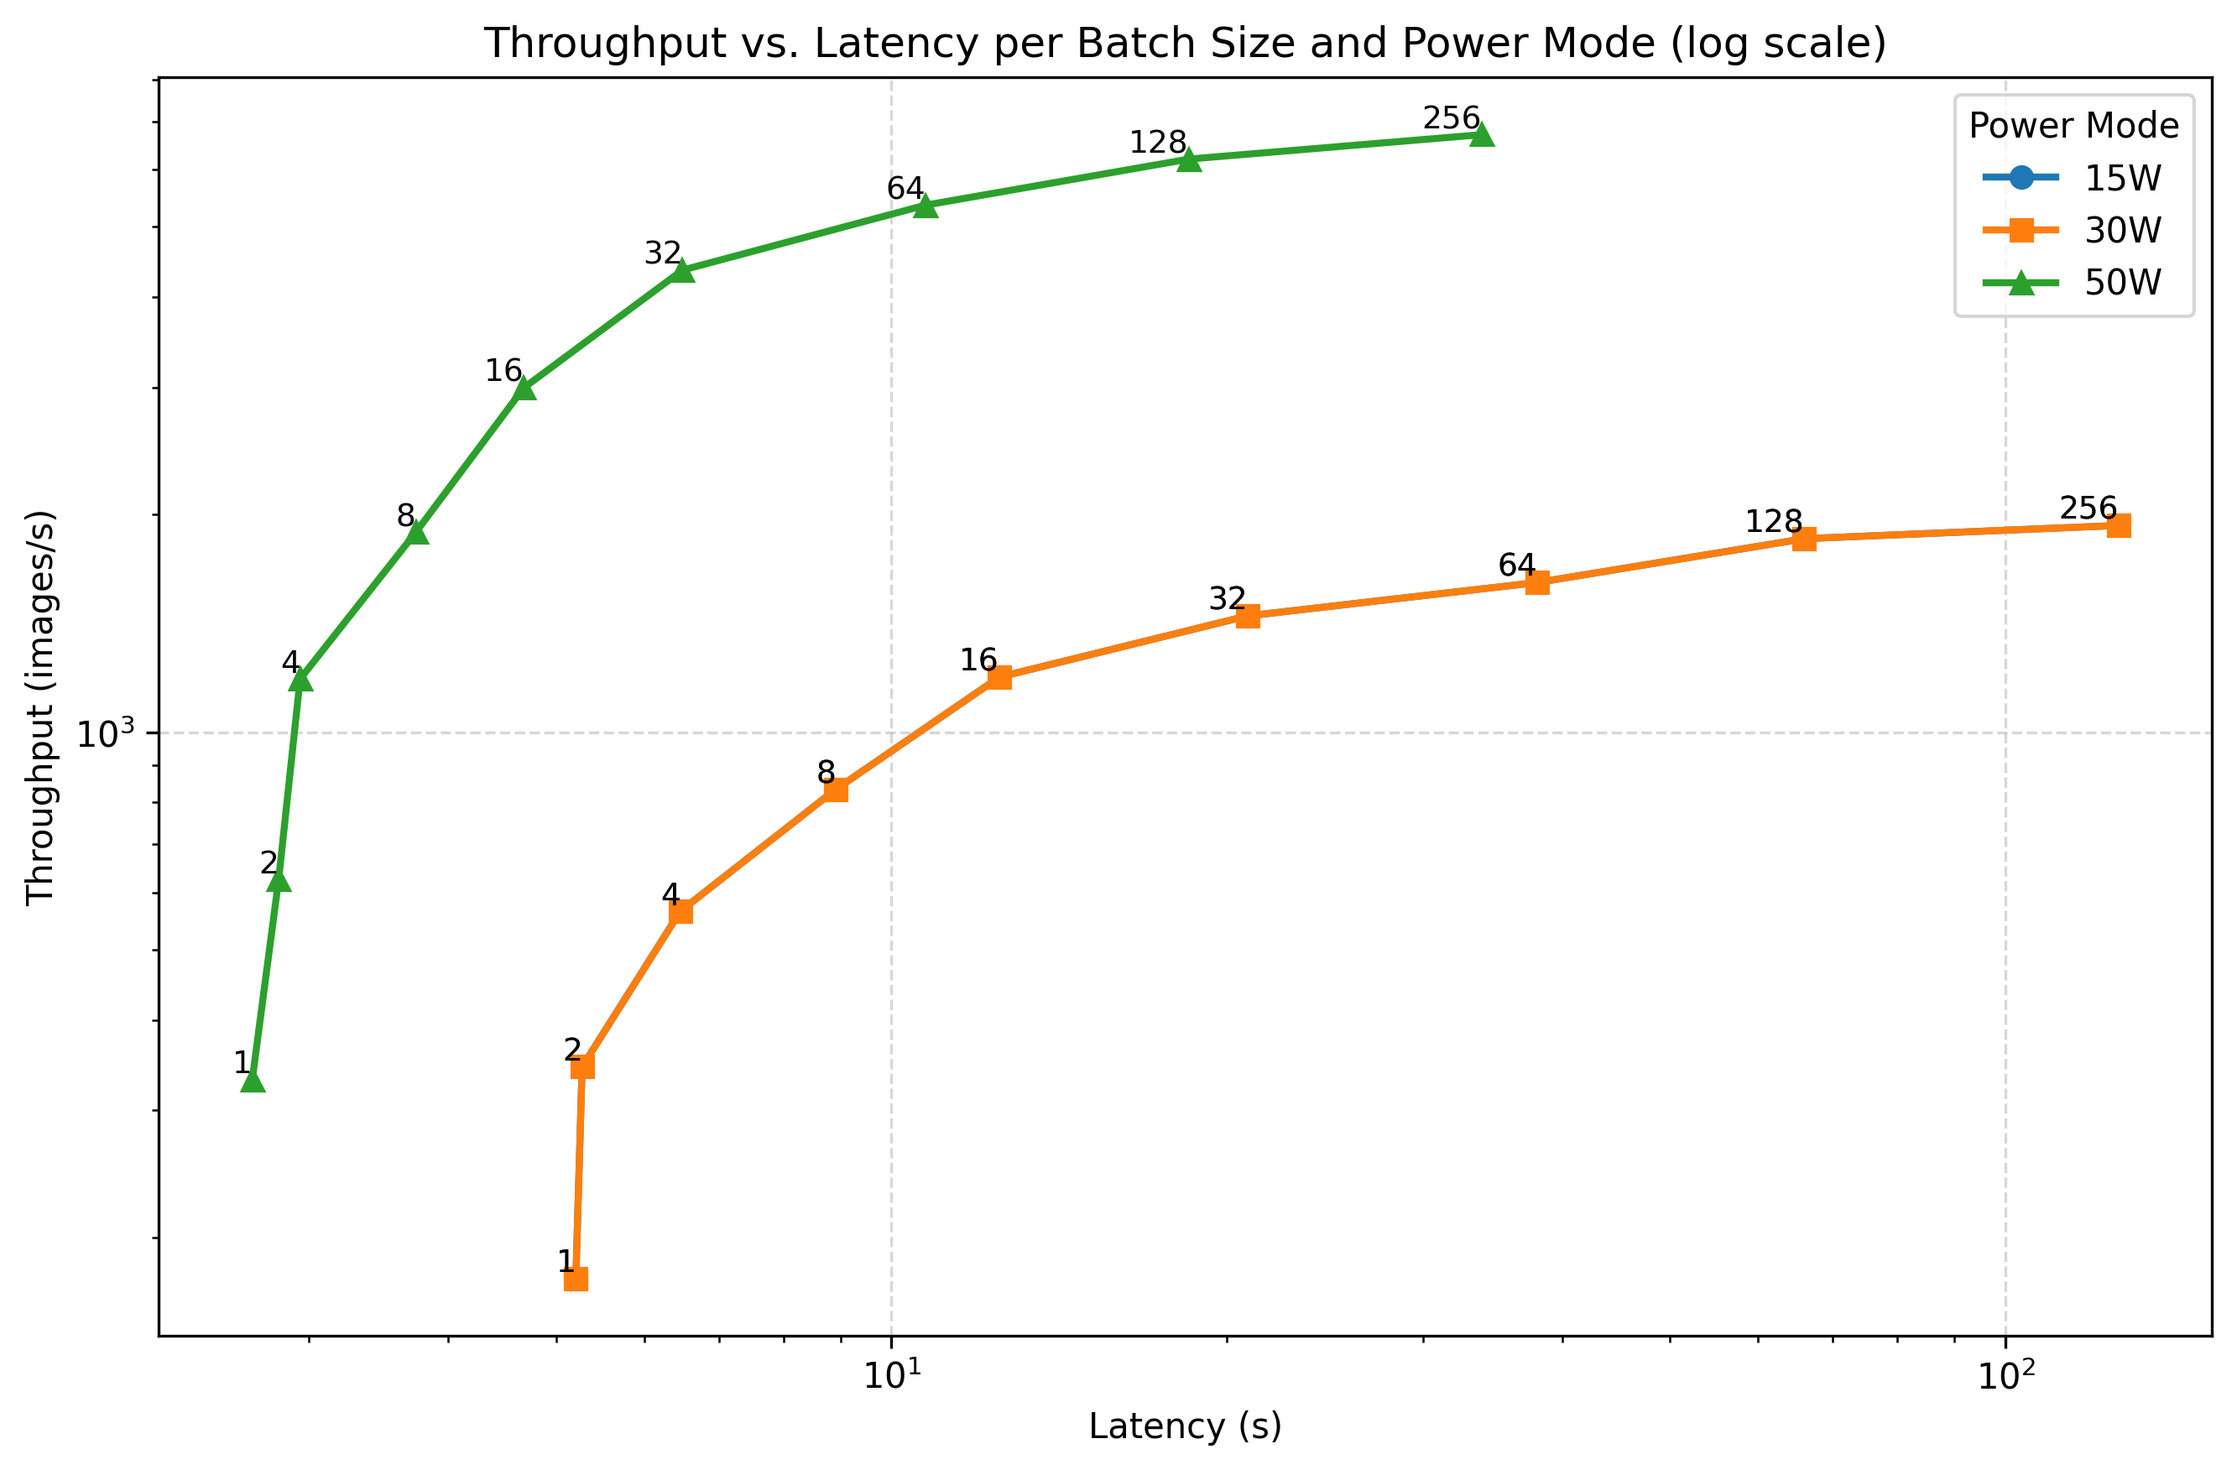
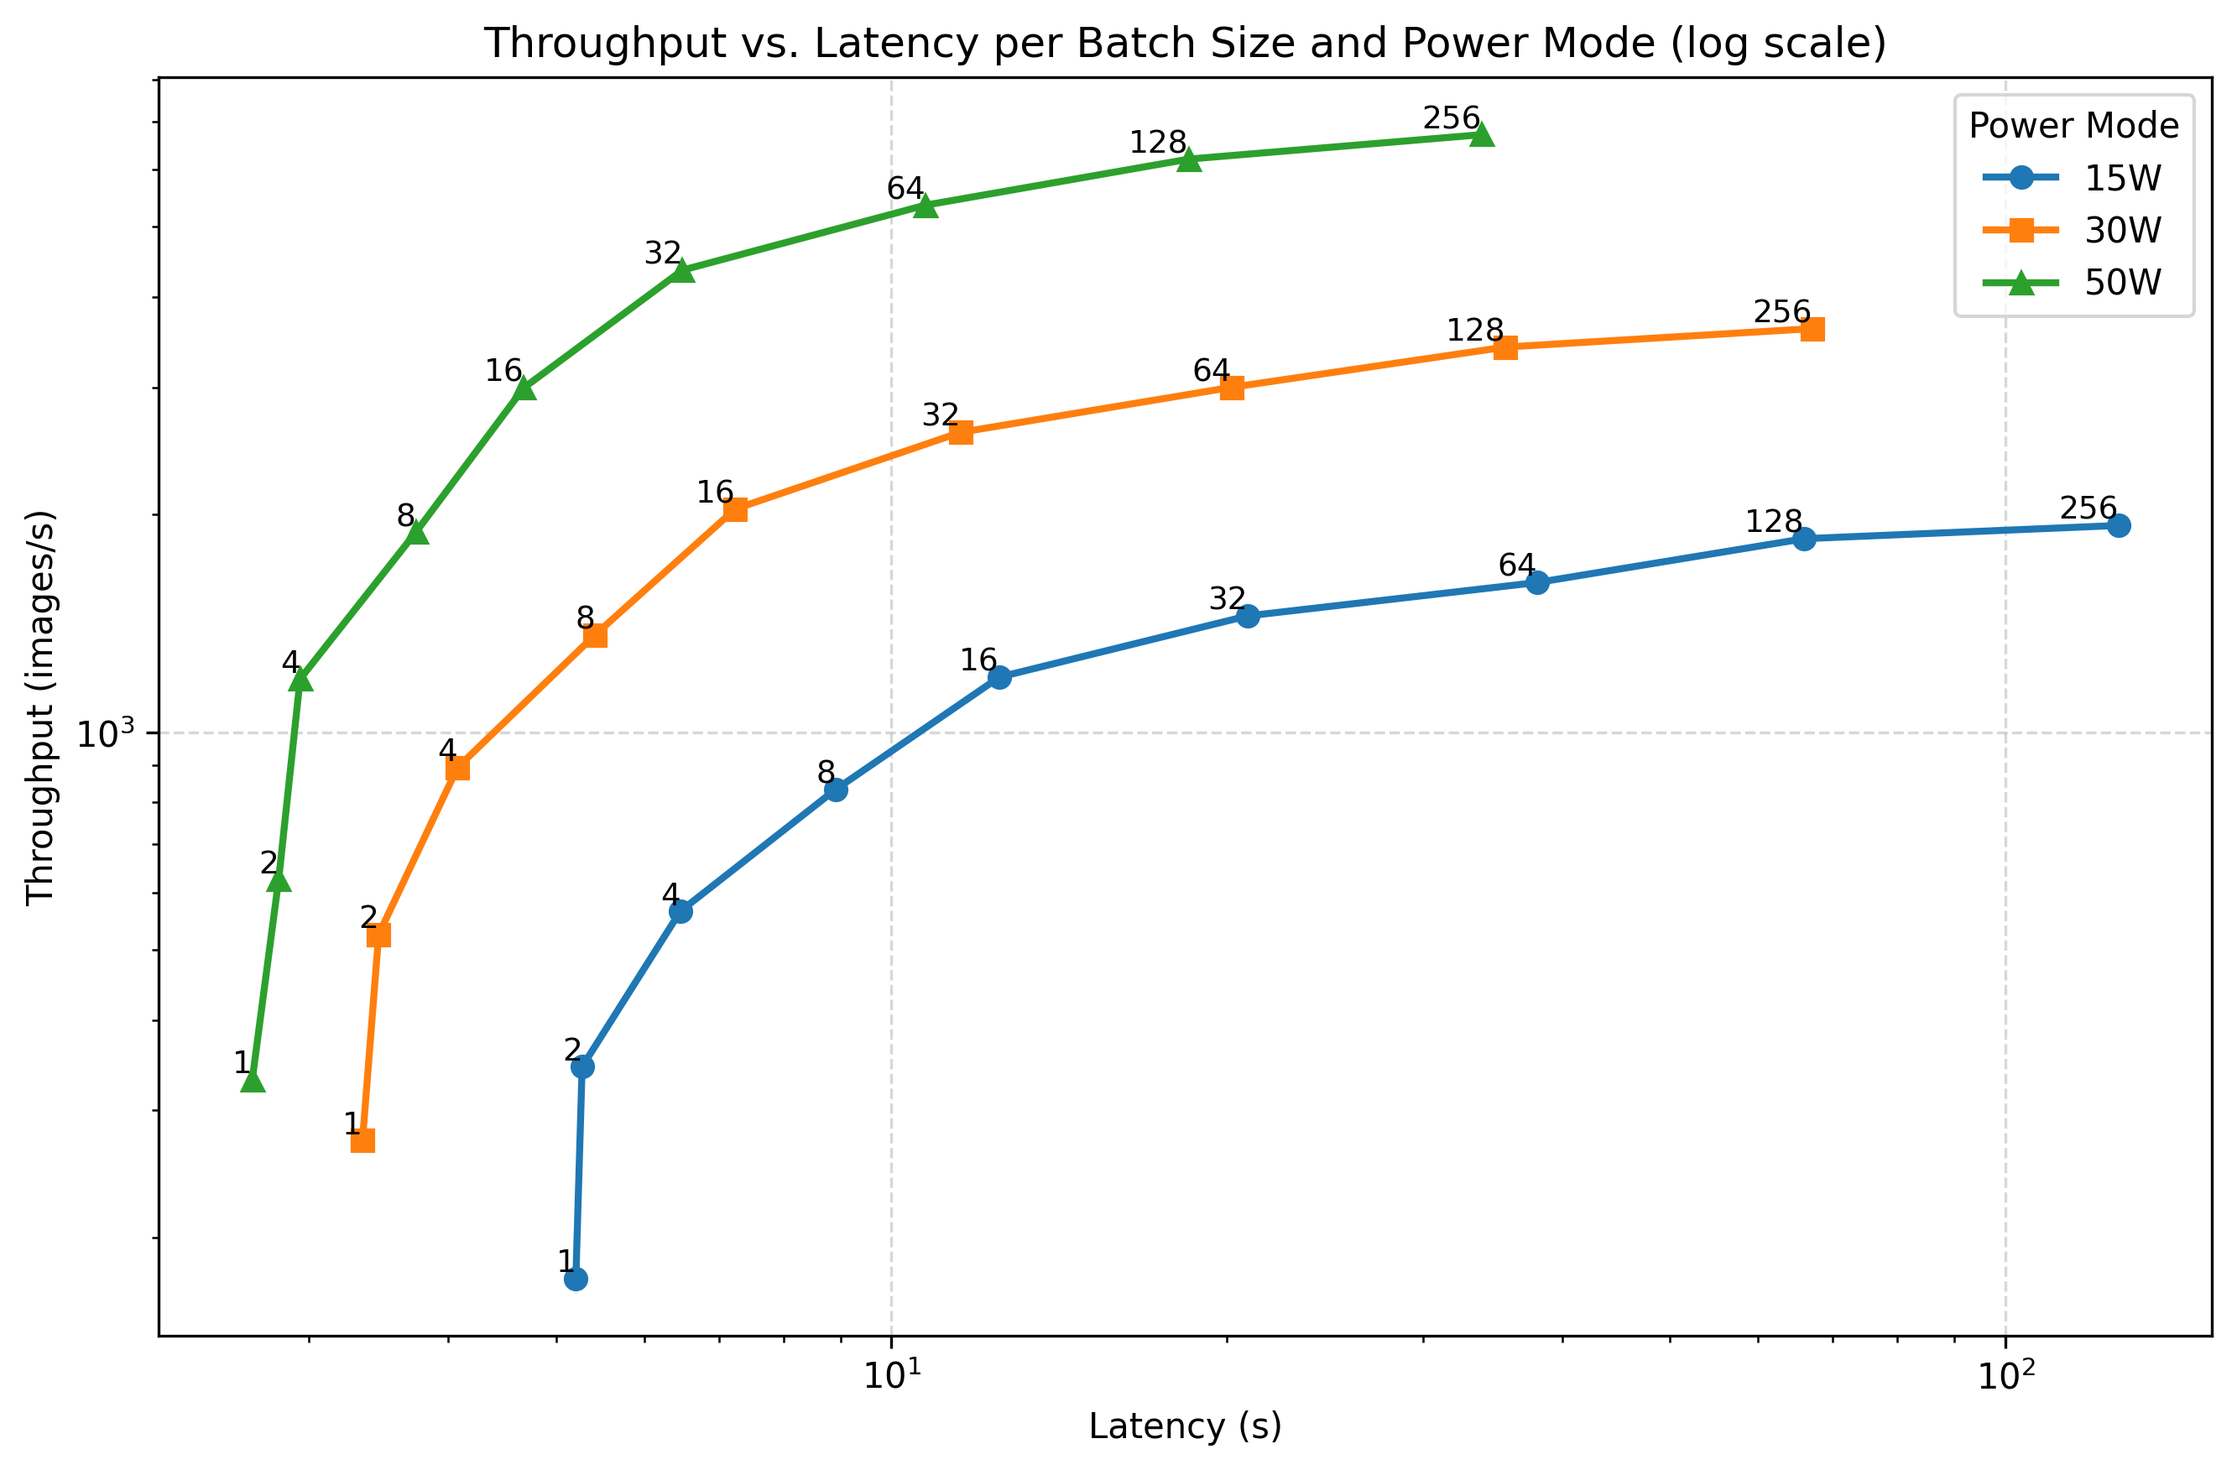
add latency throughput comparison plots

diff --git a/summary_plots/scripts/throughput_power_modes.py b/summary_plots/scripts/throughput_power_modes.py
@@ -5,6 +5,79 @@ from pathlib import Path
 import matplotlib.pyplot as plt
 
 
+PROJECT_ROOT = Path(__file__).resolve().parents[1]
+DEFAULT_INPUT_DIR = PROJECT_ROOT / "data" / "vision_base4_int8"
+DEFAULT_OUTPUT_ROOT = PROJECT_ROOT / "outputs"
+
+
+class RawDefaultsHelpFormatter(argparse.RawDescriptionHelpFormatter, argparse.ArgumentDefaultsHelpFormatter):
+        pass
+
+
+CLI_REFERENCE = """Plot modes
+    Default throughput plot
+        Reads throughput_*w.json files from --input-dir or explicit --mode mappings.
+        Writes to summary_plots/outputs/<input-folder>/throughput_power_modes_comparison.png when --output is omitted.
+
+    --latency-throughput
+        Reads latency_throughput_*w.json files from --input-dir or explicit --mode mappings.
+        Writes to summary_plots/outputs/<input-folder>/latency_throughput_power_modes_comparison_logxy.png when --latency-throughput-output is omitted.
+
+    --latency-throughput-summary
+        Reads latency_throughput_*w.json files from the base2 and base4 family directories under --input-dir.
+        Writes to summary_plots/outputs/vision_base2_int8/latency_throughput_base2_base4_comparison_logxy.png.
+
+    --combined-vision-models
+        Generates the combined base2/base4 throughput comparison.
+
+    --latency-one-model
+        Generates the base4 latency comparison across power modes.
+
+    --latency-summary
+        Generates the combined base2/base4 latency summary.
+
+Common options
+    --mode LABEL=/path/to/file.json
+        Repeatable explicit mode mapping. Skips auto-discovery.
+
+    --input-dir DIR
+        Directory used for auto-discovery of throughput_*w.json or latency_throughput_*w.json files.
+
+    --output PATH
+        Output image path for the default throughput plot. If omitted, the output folder is derived from --input-dir.
+
+    --latency-throughput-output PATH
+        Output image path for the latency-throughput plot. If omitted, the output folder is derived from --input-dir.
+
+    --value-key {throughput_images_per_s,throughput_batches_per_s}
+        Throughput metric used by the default throughput plot.
+
+    --throughput-log-scale
+        Use a logarithmic y-axis for throughput plots.
+
+    --latency-log-scale
+        Use a logarithmic x-axis for latency plots.
+"""
+
+
+def _default_output_path(source_dir, filename):
+        source_dir = Path(source_dir)
+        return DEFAULT_OUTPUT_ROOT / source_dir.name / filename
+
+
+def _resolve_default_output_path(output_path, source_dir, filename):
+        if output_path:
+                return Path(output_path)
+        return _default_output_path(source_dir, filename)
+
+
+def _infer_source_dir_from_mode_files(mode_files, fallback_dir):
+        if mode_files:
+                first_path = Path(next(iter(mode_files.values())))
+                return first_path.parent
+        return Path(fallback_dir)
+
+
 def throughput_comparison_power_modes_plot(
     power_mode_files,
     output_path,
@@ -331,6 +404,112 @@ def latency_throughput_comparison_power_modes_plot(power_mode_files, output_path
     print(f"Saved plot to {output_path}")
 
 
+def latency_throughput_comparison_model_families_plot(model_family_files, output_path, xscale="log", yscale="log"):
+    """Create a latency-vs-throughput plot for multiple model families and power modes."""
+    if not model_family_files:
+        print("WARNING: No model family files provided")
+        return
+
+    family_data = {}
+
+    for family_label, power_mode_files in model_family_files.items():
+        if not power_mode_files:
+            continue
+
+        mode_data = {}
+
+        for mode_label, json_path in power_mode_files.items():
+            try:
+                with open(json_path, "r") as f:
+                    data = json.load(f)
+            except FileNotFoundError:
+                print(f"WARNING: File not found for {family_label} / {mode_label}: {json_path}")
+                continue
+            except json.JSONDecodeError:
+                print(f"WARNING: Invalid JSON for {family_label} / {mode_label}: {json_path}")
+                continue
+
+            if not data:
+                print(f"WARNING: No data in {json_path} ({family_label} / {mode_label})")
+                continue
+
+            points_by_batch = {}
+            for entry in data:
+                batch_size = entry.get("batch_size")
+                latency_total = entry.get("latency_total")
+                throughput_images_per_s = entry.get("throughput_images_per_s")
+                if batch_size is None or latency_total is None or throughput_images_per_s is None:
+                    continue
+                points_by_batch[batch_size] = (latency_total, throughput_images_per_s)
+
+            if not points_by_batch:
+                print(f"WARNING: No valid latency-throughput data for {family_label} / {mode_label}")
+                continue
+
+            mode_data[mode_label] = points_by_batch
+
+        if mode_data:
+            family_data[family_label] = mode_data
+
+    if not family_data:
+        print("WARNING: No valid data available to create combined latency-throughput comparison plot")
+        return
+
+    fig, ax = plt.subplots(figsize=(10, 6))
+    markers = ["o", "s", "^", "D", "v", "P", "X", "*"]
+    linestyles = ["-", "--", ":", "-."]
+
+    family_labels = list(family_data.keys())
+    for family_idx, family_label in enumerate(family_labels):
+        mode_items = list(family_data[family_label].items())
+        for mode_idx, (mode_label, points_by_batch) in enumerate(mode_items):
+            sorted_points = sorted(points_by_batch.items())
+            latency_values = [point[0] for _, point in sorted_points]
+            throughput_values = [point[1] for _, point in sorted_points]
+            batch_sizes = [batch_size for batch_size, _ in sorted_points]
+
+            if not latency_values:
+                continue
+
+            color = f"C{family_idx % 10}"
+            linestyle = linestyles[mode_idx % len(linestyles)]
+            ax.plot(
+                latency_values,
+                throughput_values,
+                marker=markers[(family_idx + mode_idx) % len(markers)],
+                linewidth=2,
+                linestyle=linestyle,
+                color=color,
+                label=f"{family_label} / {mode_label}",
+            )
+
+            for latency_value, throughput_value, batch_size in zip(latency_values, throughput_values, batch_sizes):
+                ax.text(latency_value, throughput_value, str(batch_size), fontsize=9, ha="right", va="bottom")
+
+    if xscale == "log":
+        ax.set_xscale("log")
+    if yscale == "log":
+        ax.set_yscale("log")
+
+    ax.set_xlabel("Latency (s)")
+    ax.set_ylabel("Throughput (images/s)")
+    title = "Throughput vs. Latency per Batch Size, Power Mode, and Model Family"
+    if xscale == "log" or yscale == "log":
+        title += " (log scale)"
+    ax.set_title(title)
+    ax.grid(True, linestyle="--", alpha=0.5)
+    ax.legend(title="Model / Power Mode")
+
+    output_path = Path(output_path)
+    output_path.parent.mkdir(parents=True, exist_ok=True)
+
+    plt.tight_layout()
+    plt.savefig(output_path, dpi=300, bbox_inches="tight")
+    plt.close(fig)
+
+    print(f"Saved plot to {output_path}")
+
+
 def _load_latency_totals_by_batch(json_path):
     """Load latency entries and return per-batch totals plus per-type breakdown."""
     with open(json_path, "r") as f:
@@ -597,9 +776,30 @@ def discover_latency_throughput_from_input_dir(input_dir):
     return power_mode_files
 
 
+def discover_latency_throughput_families_from_input_dir(input_dir):
+    input_dir = Path(input_dir)
+    candidate_roots = [input_dir, input_dir.parent]
+
+    for root in candidate_roots:
+        base2_dir = root / "vision_base2_int8"
+        base4_dir = root / "vision_base4_int8"
+        if base2_dir.exists() or base4_dir.exists():
+            return {
+                "vision_base2_int8": discover_latency_throughput_from_input_dir(base2_dir),
+                "vision_base4_int8": discover_latency_throughput_from_input_dir(base4_dir),
+            }
+
+    return {
+        "vision_base2_int8": {},
+        "vision_base4_int8": {},
+    }
+
+
 def main():
     parser = argparse.ArgumentParser(
-        description="Generate throughput comparison plot per power mode (one line per mode)."
+        description="Generate throughput and latency comparison plots per power mode.",
+        formatter_class=RawDefaultsHelpFormatter,
+        epilog=CLI_REFERENCE,
     )
     parser.add_argument(
         "--combined-vision-models",
@@ -622,6 +822,11 @@ def main():
         help="Generate the latency-throughput plot for the available power modes.",
     )
     parser.add_argument(
+        "--latency-throughput-summary",
+        action="store_true",
+        help="Generate the combined latency-throughput plot for the available model families.",
+    )
+    parser.add_argument(
         "--throughput-log-scale",
         action="store_true",
         help="Use a logarithmic y-axis for throughput plots.",
@@ -639,18 +844,18 @@ def main():
     )
     parser.add_argument(
         "--input-dir",
-        default="/home/hanna/git/finn-transformers/summary_plots/data/vision_base4_int8",
+        default=str(DEFAULT_INPUT_DIR),
         help="Directory for auto-discovery of files named throughput_*w.json.",
     )
     parser.add_argument(
         "--output",
-        default="/home/hanna/git/finn-transformers/summary_plots/outputs/vision_base2_int8/throughput_power_modes_comparison.png",
-        help="Output path for the generated plot image.",
+        default=None,
+        help="Output path for the generated plot image. If omitted, the folder is derived from --input-dir.",
     )
     parser.add_argument(
         "--latency-throughput-output",
-        default="/home/hanna/git/finn-transformers/summary_plots/outputs/vision_base2_int8/latency_throughput_power_modes_comparison_logxy.png",
-        help="Output path for the generated latency-throughput plot image.",
+        default=None,
+        help="Output path for the generated latency-throughput plot image. If omitted, the folder is derived from --input-dir.",
     )
     parser.add_argument(
         "--value-key",
@@ -676,12 +881,33 @@ def main():
     if args.latency_throughput:
         if args.mode:
             power_mode_files = parse_mode_args(args.mode)
+            source_dir = _infer_source_dir_from_mode_files(power_mode_files, args.input_dir)
         else:
             power_mode_files = discover_latency_throughput_from_input_dir(args.input_dir)
+            source_dir = Path(args.input_dir)
+
+        latency_throughput_output = _resolve_default_output_path(
+            args.latency_throughput_output,
+            source_dir,
+            "latency_throughput_power_modes_comparison_logxy.png",
+        )
 
         latency_throughput_comparison_power_modes_plot(
             power_mode_files=power_mode_files,
-            output_path=args.latency_throughput_output,
+            output_path=latency_throughput_output,
+            xscale="log",
+            yscale="log",
+        )
+        return
+
+    if args.latency_throughput_summary:
+        model_family_files = discover_latency_throughput_families_from_input_dir(args.input_dir)
+        latency_throughput_comparison_model_families_plot(
+            model_family_files=model_family_files,
+            output_path=_default_output_path(
+                "vision_base2_int8",
+                "latency_throughput_base2_base4_comparison_logxy.png",
+            ),
             xscale="log",
             yscale="log",
         )
@@ -689,12 +915,20 @@ def main():
 
     if args.mode:
         power_mode_files = parse_mode_args(args.mode)
+        source_dir = _infer_source_dir_from_mode_files(power_mode_files, args.input_dir)
     else:
         power_mode_files = discover_modes_from_input_dir(args.input_dir)
+        source_dir = Path(args.input_dir)
+
+    output_path = _resolve_default_output_path(
+        args.output,
+        source_dir,
+        "throughput_power_modes_comparison.png",
+    )
 
     throughput_comparison_power_modes_plot(
         power_mode_files=power_mode_files,
-        output_path=args.output,
+        output_path=output_path,
         value_key=args.value_key,
         yscale="log" if args.throughput_log_scale else "linear",
     )
@@ -717,9 +951,11 @@ def main_combined_vision_models(log_scale=False):
 
     throughput_comparison_model_families_plot(
         model_family_files=model_family_files,
-        output_path=(
-            "/home/hanna/git/finn-transformers/summary_plots/outputs/vision_base2_int8/"
-            + ("throughput_power_modes_base2_base4_comparison_logy.png" if log_scale else "throughput_power_modes_base2_base4_comparison.png")
+        output_path=_default_output_path(
+            "vision_base2_int8",
+            "throughput_power_modes_base2_base4_comparison_logy.png"
+            if log_scale
+            else "throughput_power_modes_base2_base4_comparison.png",
         ),
         yscale="log" if log_scale else "linear",
     )
@@ -735,9 +971,9 @@ def main_latency_one_model(log_scale=False):
 
     latency_comparison_power_modes_plot(
         power_mode_files=power_mode_files,
-        output_path=(
-            "/home/hanna/git/finn-transformers/summary_plots/outputs/vision_base4_int8/"
-            + ("latency_power_modes_comparison_logx.png" if log_scale else "latency_power_modes_comparison.png")
+        output_path=_default_output_path(
+            "vision_base4_int8",
+            "latency_power_modes_comparison_logx.png" if log_scale else "latency_power_modes_comparison.png",
         ),
         xscale="log" if log_scale else "linear",
     )
@@ -760,9 +996,11 @@ def main_latency_summary(log_scale=False):
 
     latency_summary_model_families_plot(
         model_family_files=model_family_files,
-        output_path=(
-            "/home/hanna/git/finn-transformers/summary_plots/outputs/vision_base2_int8/"
-            + ("latency_summary_base2_base4_comparison_logx.png" if log_scale else "latency_summary_base2_base4_comparison.png")
+        output_path=_default_output_path(
+            "vision_base2_int8",
+            "latency_summary_base2_base4_comparison_logx.png"
+            if log_scale
+            else "latency_summary_base2_base4_comparison.png",
         ),
         xscale="log" if log_scale else "linear",
     )
